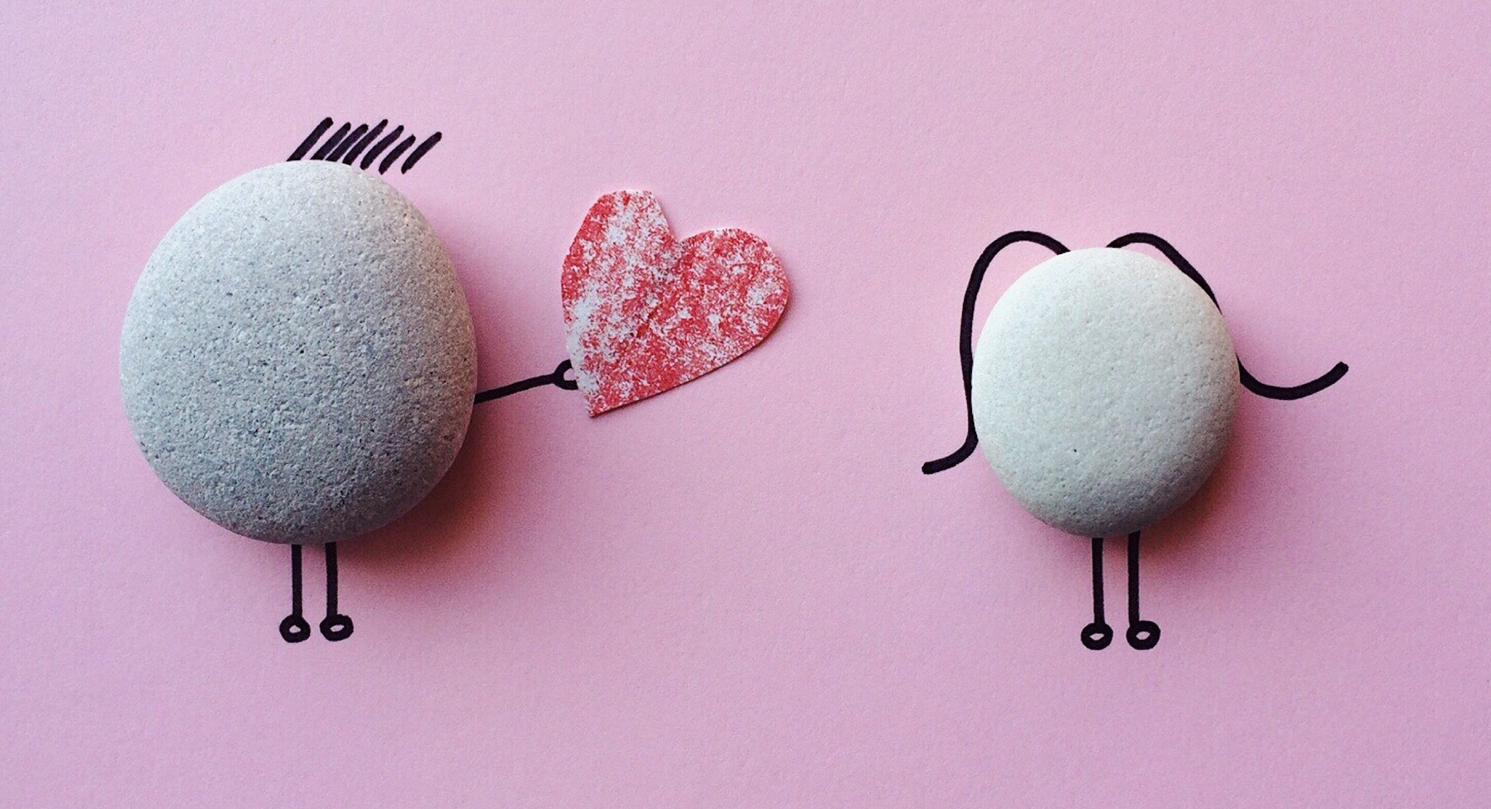
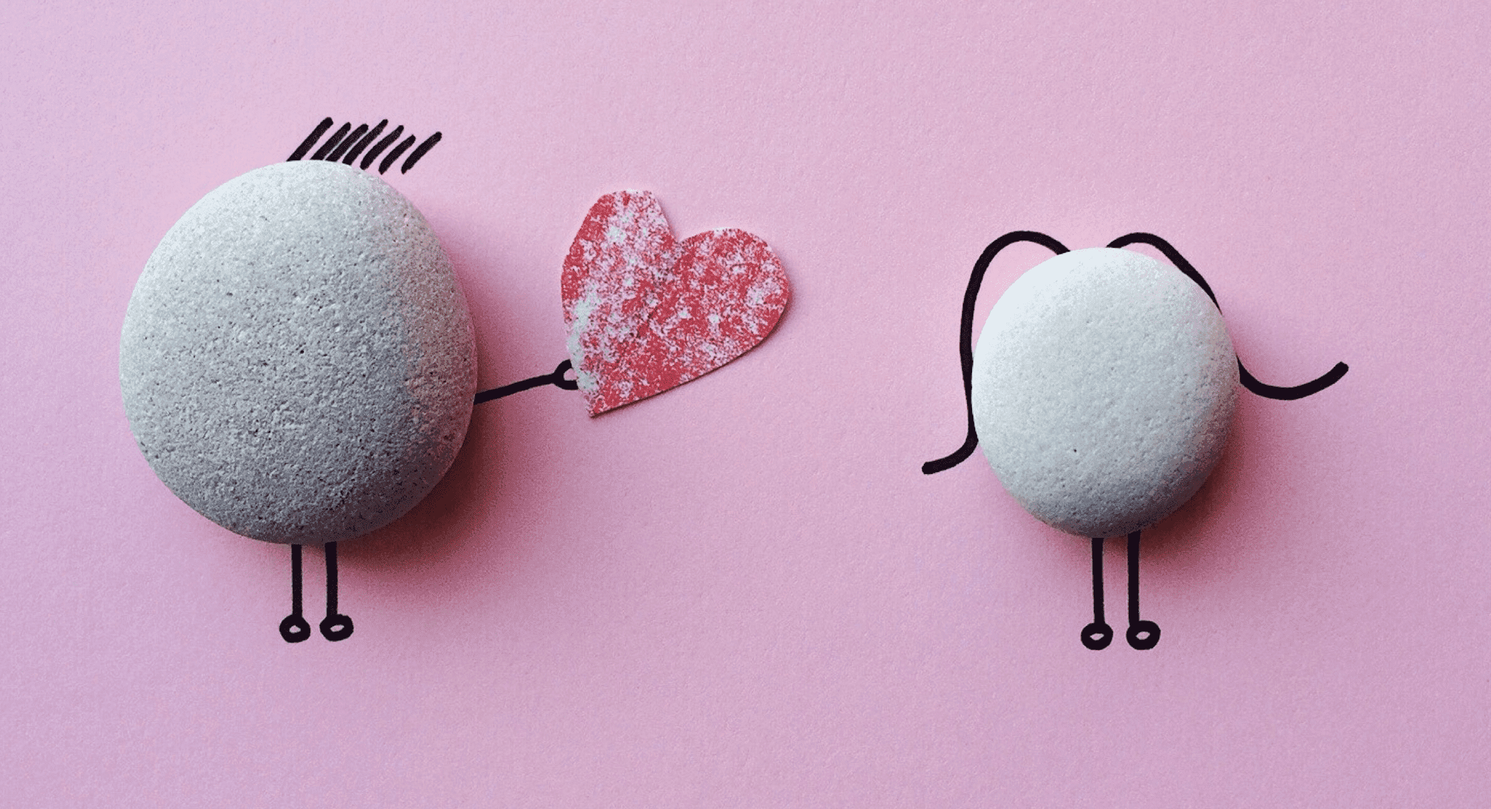
optimizado

diff --git a/index.html b/index.html
@@ -13,6 +13,7 @@
 </head>
 <body>
 
+<!--Content-->
     <div class="contenedor">
         <p class="pregunta">¿Piensas mucho en mí?</p>
         <button id="yesBtn">

diff --git a/index.js b/index.js
@@ -1,3 +1,10 @@
+/*preloader*/ 
+
+
+
+/*content*/ 
+
+
 const yesBtn = document.querySelector('#yesBtn');
 
 yesBtn.addEventListener('click',function () {

diff --git a/estilos.css b/estilos.css
@@ -134,3 +134,5 @@ button{
 #noBtn{
     position: absolute;
 }
+
+
